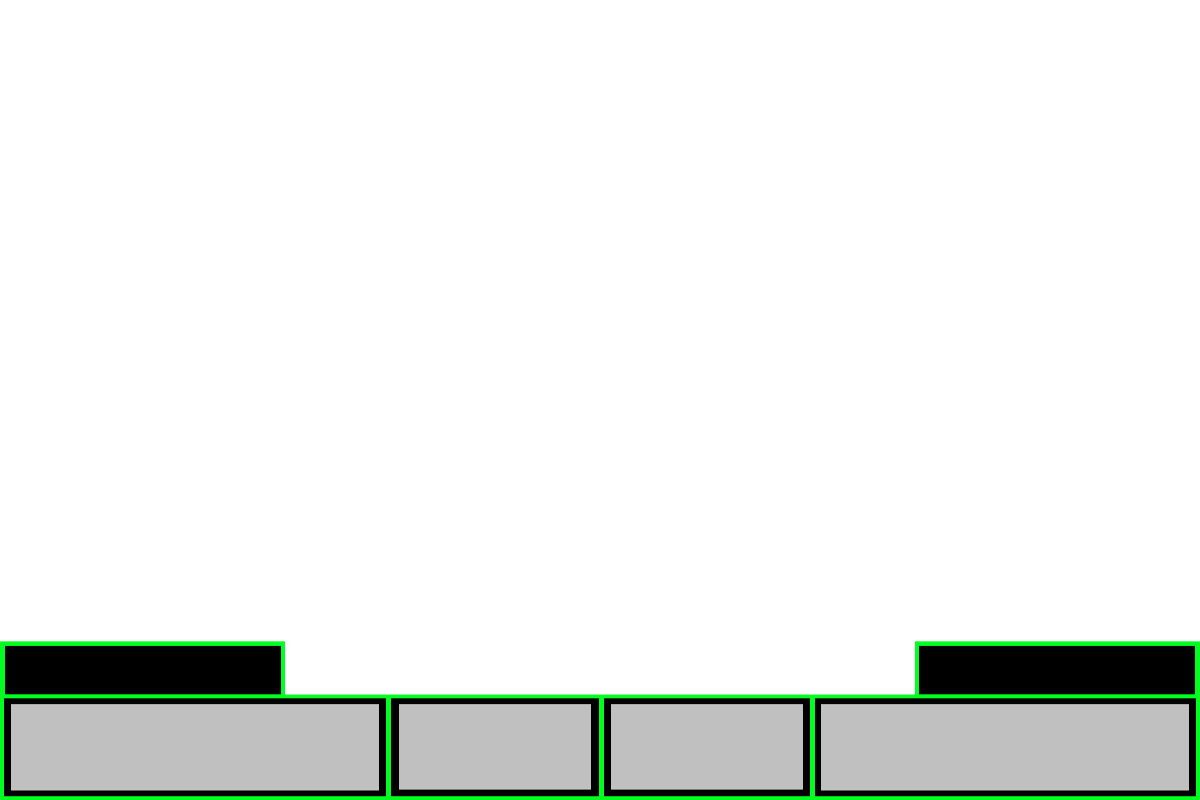
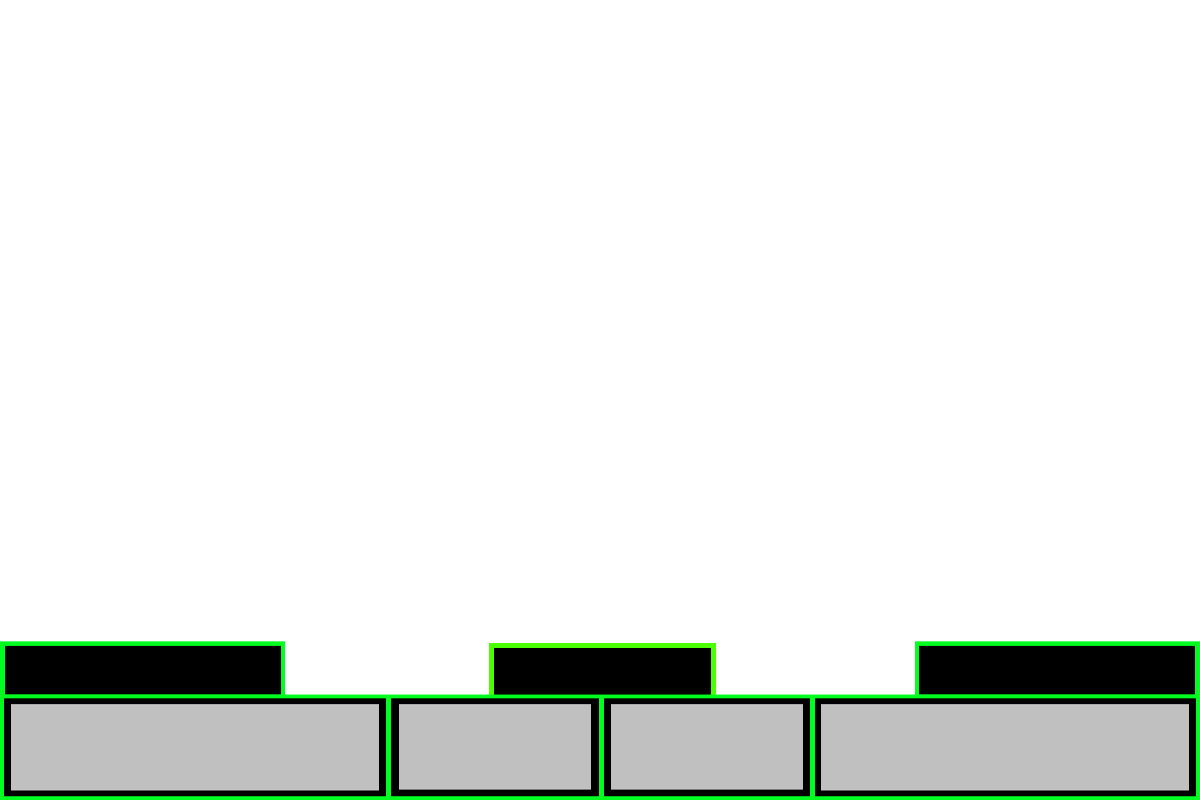
changed strategy, started work on gold minerals, moved ui and game timer

Changed region(s): [[0.4008, 0.7812, 0.6167, 0.875]]

diff --git a/SimulationProject/GoldBot.java b/SimulationProject/GoldBot.java
@@ -1,0 +1,69 @@
+import greenfoot.*;
+
+public class GoldBot extends People
+{
+    private Base homeBase;
+    private GoldMineral goldMineral;
+
+    private int timer = 0;
+    private int carryAmount = 0;
+
+    private boolean goingToGold = true;
+
+    public GoldBot(Team team, Base base) {
+        super(team, 300, 5);
+        this.homeBase = base;
+
+        if (team != null) {
+            team.addUnit(this);
+        }
+    }
+
+    protected void addedToWorld(World w) {
+        if (!w.getObjects(GoldMineral.class).isEmpty()) {
+            goldMineral = w.getObjects(GoldMineral.class).get(0);
+        }
+    }
+
+    public void act() {
+        if (goldMineral == null || homeBase == null) {
+            return;
+        }
+
+        if (timer > 0) {
+            timer--;
+            return;
+        }
+
+        if (goingToGold) {
+            moveTowards(goldMineral.getX(), goldMineral.getY());
+
+            double dist = Math.hypot(
+                getX() - goldMineral.getX(),
+                getY() - goldMineral.getY()
+            );
+
+            if (dist < 35) {
+                timer = 60;
+                carryAmount = 75;
+                goingToGold = false;
+            }
+        } else {
+            moveTowards(homeBase.getX(), homeBase.getY());
+
+            double dist = Math.hypot(
+                getX() - homeBase.getX(),
+                getY() - homeBase.getY()
+            );
+
+            if (dist < 35) {
+                team.addMoney(carryAmount);
+                carryAmount = 0;
+                timer = 60;
+                goingToGold = true;
+            }
+        }
+
+        super.act();
+    }
+}

diff --git a/SimulationProject/Team.java b/SimulationProject/Team.java
@@ -159,7 +159,7 @@ public class Team extends Actor {
             }
         }
 
-        if ((currentTurretAmount + pendingTurrets) < turretNeeded) {
+        if ((currentTurretAmount + pendingTurrets) < turretNeeded && turretNeeded > 0) {
             if (resources >= turretCost) {
                 Turret turret = new Turret(this);
                 if (placeTurret(turret)) {
@@ -266,7 +266,7 @@ public class Team extends Actor {
     }
 
     private Boolean placeBarrack(Buildings building) { 
-        building.setStatBarEnabled(false);
+        
         // places a barrack done insuring it doesn't collide with anything else
         // and then assigns that job to a worker to build
 
@@ -327,7 +327,7 @@ public class Team extends Actor {
     }
 
     private Boolean placeTurret(Buildings building) {
-        building.setStatBarEnabled(false);
+        //building.setStatBarEnabled(false);
         // places a Turret done insuring it doesn't collide with anything else
         // and then assigns that job to a worker to build
 
@@ -586,7 +586,16 @@ public class Team extends Actor {
             //workerAmt ++;
         }
     }
-
+    
+    public void spawnGoldBot() {
+        if (base == null || base.getWorld() == null) {
+            return;
+        }
+    
+        GoldBot bot = new GoldBot(this, base);
+        base.getWorld().addObject(bot, base.getX(), base.getY());
+    }
+    
     private void cleanSupplyBots() {
         for (int i = 0; i < supplybots.size(); i++) {
             if (supplybots.get(i) == null || supplybots.get(i).getWorld() == null) {

diff --git a/SimulationProject/MyWorld.java b/SimulationProject/MyWorld.java
@@ -79,7 +79,7 @@ public class MyWorld extends World {
         supplySpawnTimer = 0;
 
         setUpWorld();
-        setPaintOrder(HealthBar.class, EndScreen.class, Counter.class, UI.class);
+        setPaintOrder(GameTimer.class, HealthBar.class, EndScreen.class, Counter.class, UI.class );
         prepare();
     }
 
@@ -129,7 +129,9 @@ public class MyWorld extends World {
     private void setGameState() {
         removeObjects(getObjects(null));
         
-        addObject(new GameTimer(), 0, 15);
+       
+        
+        //addObject(new GoldMineral(), 600, 350);
         
         Base redBase = new Base(redTeam);
         addObject(redBase, 200, 490);
@@ -162,7 +164,9 @@ public class MyWorld extends World {
 
         applyTeamSetup(redTeam, redBase, config.getRedSetup(), RED_BARRACK_POSITIONS, RED_TURRET_POSITIONS);
         applyTeamSetup(blueTeam, blueBase, config.getBlueSetup(), BLUE_BARRACK_POSITIONS, BLUE_TURRET_POSITIONS);
-
+        
+        addObject(new GameTimer(), 600, 670);
+        
         redTeam.setUpWorld();
         blueTeam.setUpWorld();
         

diff --git a/SimulationProject/Buildings.java b/SimulationProject/Buildings.java
@@ -57,8 +57,15 @@ public abstract class Buildings extends Entity
     }
 
     public void remove() {
-        getWorld().removeObject(statBar);
-        getWorld().removeObject(this);
+        World world = getWorld();
+    
+        if (world == null) return;
+    
+        if (statBar != null && statBar.getWorld() != null) {
+            world.removeObject(statBar);
+        }
+    
+        world.removeObject(this);
     }
 
     public abstract int getCost();

diff --git a/SimulationProject/Marine.java b/SimulationProject/Marine.java
@@ -57,10 +57,10 @@ public class Marine extends Soldier
         }
     
         int level = base.getLevel();
-        int reduced = maxMarineCoolDown - ((level - 1) * 20);
+        int reduced = maxMarineCoolDown - ((level - 1) * 10);
     
-        if (reduced < 40) {
-            reduced = 40;
+        if (reduced < 10) {
+            reduced = 10;
         }
     
         return reduced;

diff --git a/SimulationProject/Turret.java b/SimulationProject/Turret.java
@@ -15,7 +15,7 @@ public class Turret extends Buildings
     private int shootCounter; // delay the time it takes to shoot for each soldier
     private final int attackRange = 260;
     private final int cost = 150;
-    private int damage = 19;
+    private int damage = 24;
     private int decayTimer = 0;
     private int DECAY_RATE = 20;
 

diff --git a/SimulationProject/GoldMineral.java b/SimulationProject/GoldMineral.java
@@ -1,0 +1,15 @@
+import greenfoot.*;
+
+public class GoldMineral extends Actor
+{
+    private GreenfootImage img;
+
+    public GoldMineral() {
+        img = ResourceCache.getImage("GoldMinerals.png");
+
+        if (img != null) {
+            img.scale(80, 80);
+            setImage(img);
+        }
+    }
+}
